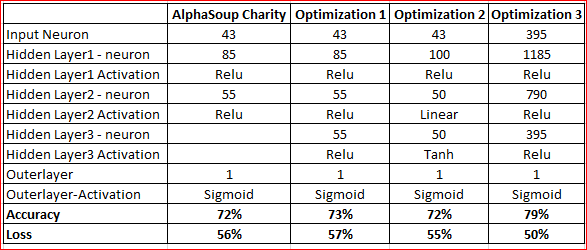
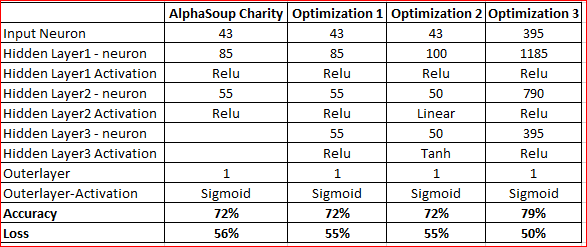
Updated Result

Changed region(s): [[0.0, 0.0, 1.0, 0.9919]]

diff --git a/README.md b/README.md
@@ -33,19 +33,22 @@ With our knowledge of machine learning and neural networks,  used the features i
 
     * What steps did you take to try and increase model performance?
 
-        Increased the number of hidden layers to 3. Also made the number of neurons for the hidden layer multiples of the feature. The first hidden layer it was 3 times the input_dim, for the second 2 times the input_dim & for the third it was equal to input_dim. Dropped the Status & Special consideration column . Also added & binned the Name column. 
+        1. For first attempt at optimization , increased the hidden layer to 3. Used Relu linear activation function. There was not much differnce in accuracy> it was 72% 
 
-        ![image](./IMAGES/model2.PNG) 
+        2. For second  attempt at optimization , increased to neurons to 100 & 50. Increased the hidden layer to 3. Used Relu, Linear, Tanh linear activation function. There was not much differnce in accuracy it was still 72%
 
-       
-        
-        Was able to get 79% accuracy with 50% loss.
+        3. Increased the number of hidden layers to 3. Also made the number of neurons for the hidden layer multiples of the feature. The first hidden layer it was 3 times the input_dim, for the second layer 2 times the input_dim & for the third layer  was equal to input_dim. Dropped the Status & Special consideration column . Also added & binned the Name column. 
 
-        ![image](./IMAGES/model2accuracy.PNG)
+            ![image](./IMAGES/model2.PNG) 
+
+               
+            Was able to get 79% accuracy with 50% loss.
+
+            ![image](./IMAGES/model2accuracy.PNG)
 
 ### Summary
 
-        The deep learning model increased the accuracy slightly but it was slow when hidden layer was increased to 3. The random forest model could have done & acheived the same result.It would have run efficiently on the large datasets. Below is the summary of the optimization result with the deep learning .
+        The deep learning model increased the accuracy slightly but it was slow when hidden layer was increased to 3. The random forest model could have done & acheived the same result. It would have run efficiently on the large datasets. Below is the summary of the optimization result with the deep learning.
 
    ![image](./IMAGES/Summary.PNG)
 
